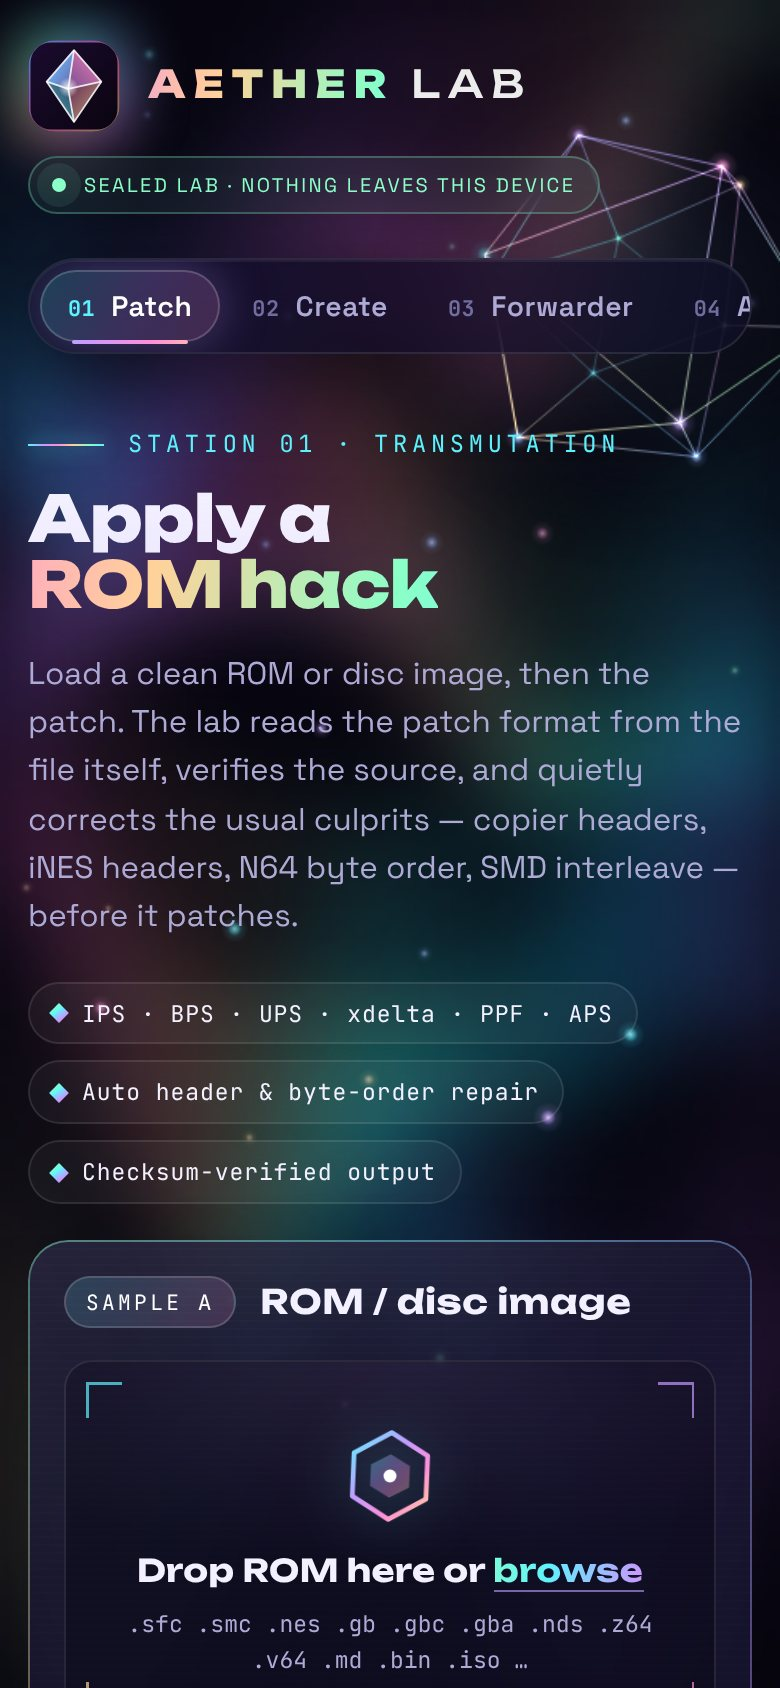
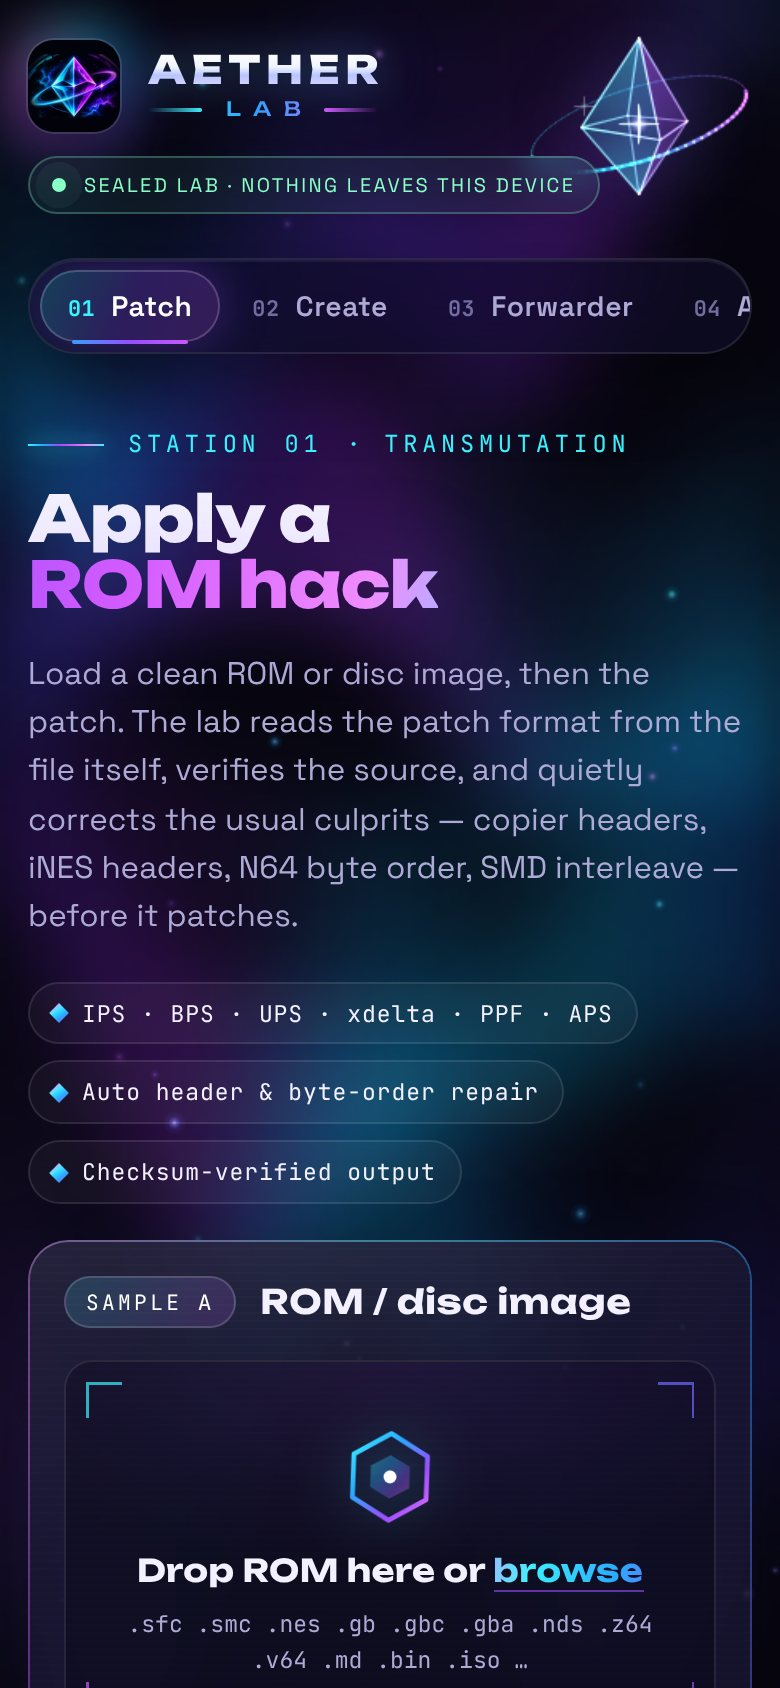
Update screenshots, social preview and brand docs
- docs/screenshots regenerated with the new look
- docs/social-preview.jpg (1280x640) for the repo's social card
- design.md: brand assets, new tokens, where the crystal is drawn
- README logo and project layout; CHANGELOG

Claude-Session: https://claude.ai/code/session_013h4UAKn46A7Cq5dj7wSGcr

diff --git a/docs/design.md b/docs/design.md
@@ -14,15 +14,31 @@ Defined on `:root` in `css/style.css`.
 | `--glass`, `--glass-solid` | translucent / `#120f2c` | Card fill; the solid one is the no-blur fallback |
 | `--edge`, `--edge-hi` | white at 10% / 22% | Hairlines, hover edges |
 | `--text`, `--dim`, `--faint` | `#f3f1ff`, `#aeaad6`, `#716d9f` | Body, secondary, tertiary text |
-| `--c1` … `--c6` | cyan, periwinkle, lavender, pink, peach, mint | The spectrum: every gradient, glow and highlight is drawn from these six |
+| `--c1` … `--c6` | cyan `#3cf2ff`, azure `#2aa8ff`, indigo `#6f6bff`, violet `#9a4dff`, magenta `#d35bff`, orchid `#f08cff` | The spectrum, sampled from the logo: every gradient, glow and highlight is drawn from these six |
+| `--chrome` | white → ice blue → lilac | The silver of the logo's AETHER wordmark |
 | `--spectrum`, `--spectrum-conic` | gradients built from `--c1…--c6` | Foil buttons, card edges, wordmark |
-| `--ok`, `--bad`, `--warn` | mint, rose, peach | Check results — always paired with an icon or word, never colour alone |
+| `--ok`, `--bad`, `--warn` | mint, rose, peach | Check results, always paired with an icon or word, never colour alone. They're deliberately outside the brand spectrum so a status never looks like decoration |
 | `--display`, `--ui`, `--mono` | Unbounded, Space Grotesk, JetBrains Mono | Headings/wordmark, interface, data (hashes, offsets, IDs) |
 | `--r-lg`, `--r-md`, `--r-sm` | 24 / 14 / 10 px | Card, control, chip radii |
 | `--gap` | `clamp(14px, 2.4vw, 24px)` | Fluid spacing |
 | `--ease` | `cubic-bezier(0.2, 0.8, 0.2, 1)` | Every transition |
 
 The fonts are self-hosted WOFF2 files (Latin subset) under the SIL Open Font License. Their licences are in `licenses/`. Don't swap them for a font CDN, because the content security policy blocks other hosts by design.
+
+## Brand assets
+
+The logo is the source of the palette and the shapes. All files are in `images/`:
+
+| File | Size | Used for |
+| --- | --- | --- |
+| `logo.webp` | 512 px | Boot screen, README |
+| `mark.webp` | 192 px | Header mark: the crystal and ring without the wordmark |
+| `favicon-16.png`, `favicon-32.png` | 16 / 32 px | Browser tab, tightly cropped on the crystal so it reads at tiny sizes |
+| `apple-touch-icon.png`, `icon-192.png`, `icon-512.png` | 180 / 192 / 512 px | Home-screen icons (`manifest.webmanifest`) |
+
+`docs/social-preview.jpg` (1280 × 640) is the repository's social card. Upload it under the repo's **Settings → General → Social preview**.
+
+The header wordmark is live text, not an image: **AETHER** in `--chrome` over a spaced **LAB** between two rule lines, the same lockup as the logo. The background crystal (`fx.js`) and the forwarder icons' crystal (`icon.js`) are drawn in code to the same design: an elongated square bipyramid, cyan facets on the left and violet on the right, a tilted orbit ring passing in front of its lower half, and four-point flares.
 
 ## Layers
 
@@ -32,7 +48,7 @@ From back to front:
 | --- | --- | --- | --- |
 | Background | `html` background | — | On `html`, not `body`, so the negative-z canvases show through a transparent body |
 | Aurora | `canvas#aurora` | −3 | Six soft ribbons drawn on a tiny canvas and scaled up; blurred with `ctx.filter`, or a CSS blur where unsupported |
-| Field | `canvas#field` | −2 | The rotating prism crystal and drifting motes; follows the pointer slightly |
+| Field | `canvas#field` | −2 | The logo's crystal (cyan left, violet right) turning inside its orbit ring, plus drifting motes; follows the pointer slightly |
 | Glow | `#glow` | −1 | Soft spotlight that follows the pointer (fine pointers only) |
 | Content | stations, cards | auto | Frosted glass via `backdrop-filter` |
 | Sparks | `canvas#sparks` | 90 | Overlay for success bursts, so shards fly over cards |

diff --git a/CHANGELOG.md b/CHANGELOG.md
@@ -7,11 +7,19 @@ Notable changes to Aether Lab are listed here. The format follows [Keep a Change
 ### Added
 
 - **Patcher edition**: Patch, Create, Analyze and the Codex without the Switch forwarder. `tools/build-patcher.js` builds it, and a workflow publishes it to the `patcher-site` branch on every push to `main`.
+- Favicons, home-screen icons and `manifest.webmanifest`, plus a social preview image (`docs/social-preview.jpg`).
 - `.nojekyll`, so GitHub Pages can serve the full edition straight from `main`.
 - Deployment guides for both editions, including switching an existing Hostinger site to the patcher edition.
 
 ### Changed
 
+- **New logo and brand.**
+  - The palette is re-sampled from the logo: cyan through azure, violet and magenta.
+  - The header lockup now matches the logo: chrome AETHER over a spaced LAB.
+  - The boot screen shows the full logo.
+  - The background crystal and the forwarder-icon crystal are redrawn as the logo's two-tone crystal with its orbit ring.
+  - Status colours (ok, warn, bad) stay separate from the brand spectrum.
+- Screenshots updated.
 - Stations are numbered from the tabs on the page, so either edition counts 01, 02, 03… without gaps.
 - Key-related text no longer names or explains a specific key-dumping tool. It just asks for the `prod.keys` from your own console.
 

diff --git a/README.md b/README.md
@@ -1,6 +1,6 @@
 <div align="center">
 
-<img src="images/logo.svg" width="96" height="96" alt="Aether Lab logo">
+<img src="images/logo.webp" width="220" height="220" alt="Aether Lab logo: a cyan and violet crystal circled by an orbit ring">
 
 # Aether Lab
 
@@ -126,7 +126,8 @@ js/patch/           one file per patch format + engine.js (auto-fix logic)
 js/rom/             console detection, headers, checksums, N64 helpers
 js/nsp/             AES, prod.keys, PFS0/RomFS/IVFC, NCA, NACP/NPDM/CNMT, forwarder builder
 js/ui/              one file per station, DOM helpers, icon generator, fx.js (visual effects)
-fonts/ images/      self-hosted fonts and the logo
+fonts/ images/      self-hosted fonts; the logo, header mark, favicons and app icons
+manifest.webmanifest  name and icons for "Add to Home Screen"
 licenses/           licence texts for the fonts and the forwarder ExeFS
 tests/              dependency-free test suite + fixtures made by other tools
 tools/              build-patcher.js: makes the patcher edition (no Switch forwarder)
